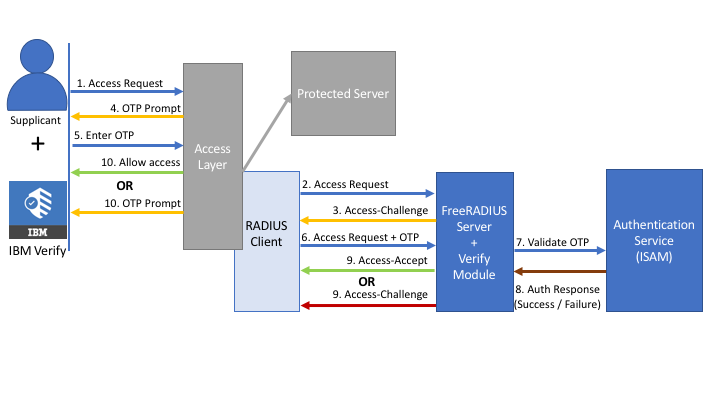
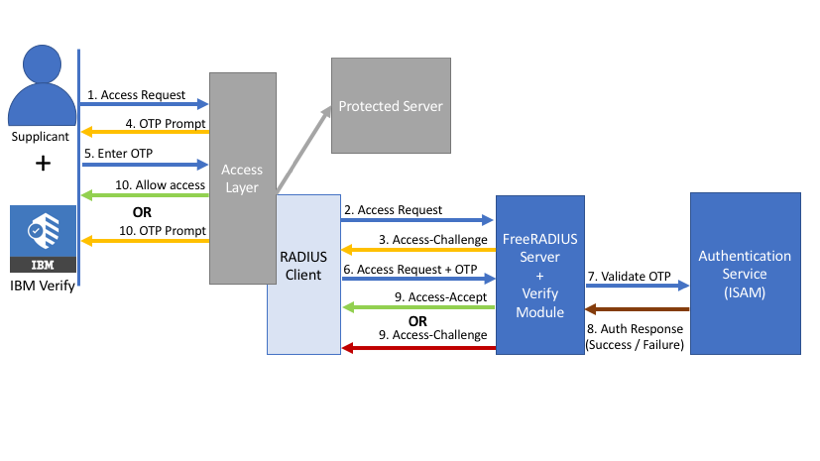
updated image

diff --git a/README.md b/README.md
@@ -25,7 +25,7 @@ The easiest way to test the environment is to use the provided test client scrip
 
 ## Architecture
 The module is designed to be used in an environment similar to the following:
-![module-architecture][docs/module-architecture.png]
+![module-architecture](docs/module-architecture.png)
 
 ## Configuration
 Property Name | Type | Description | Default
